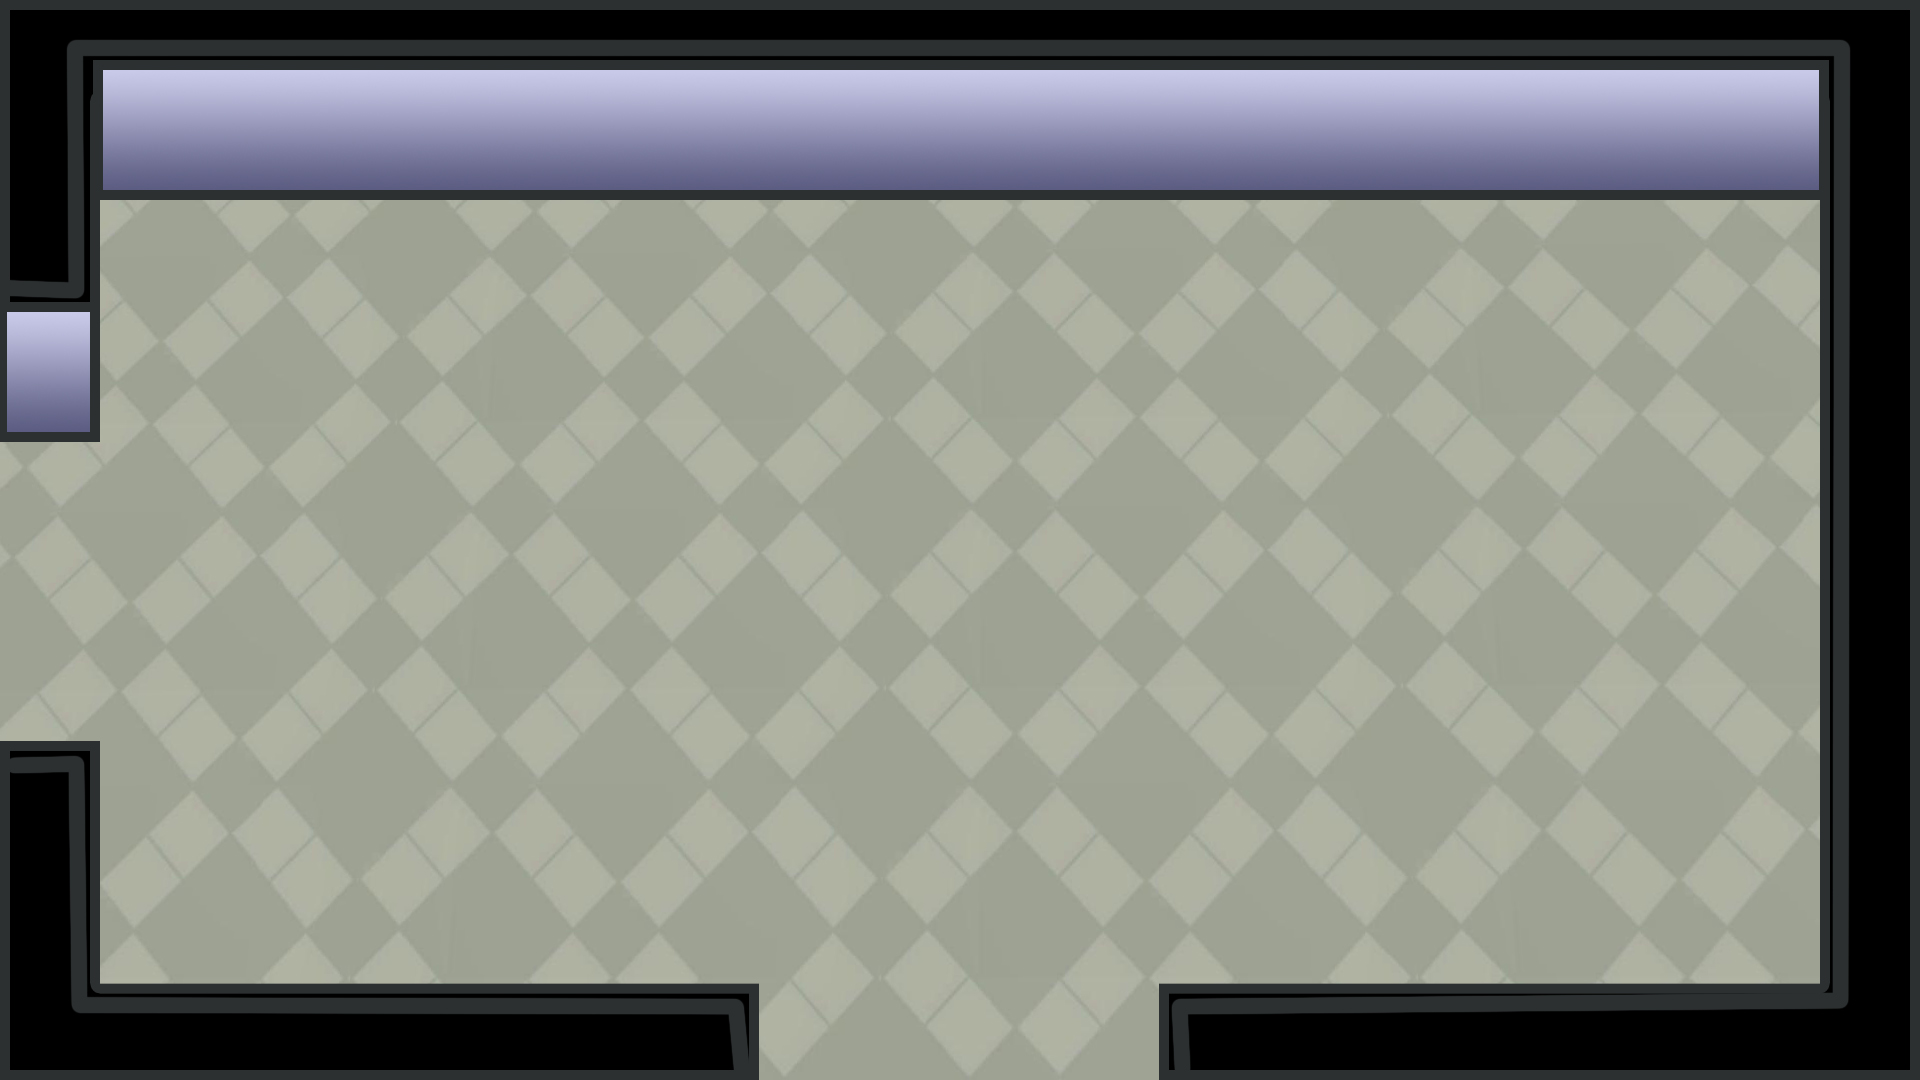
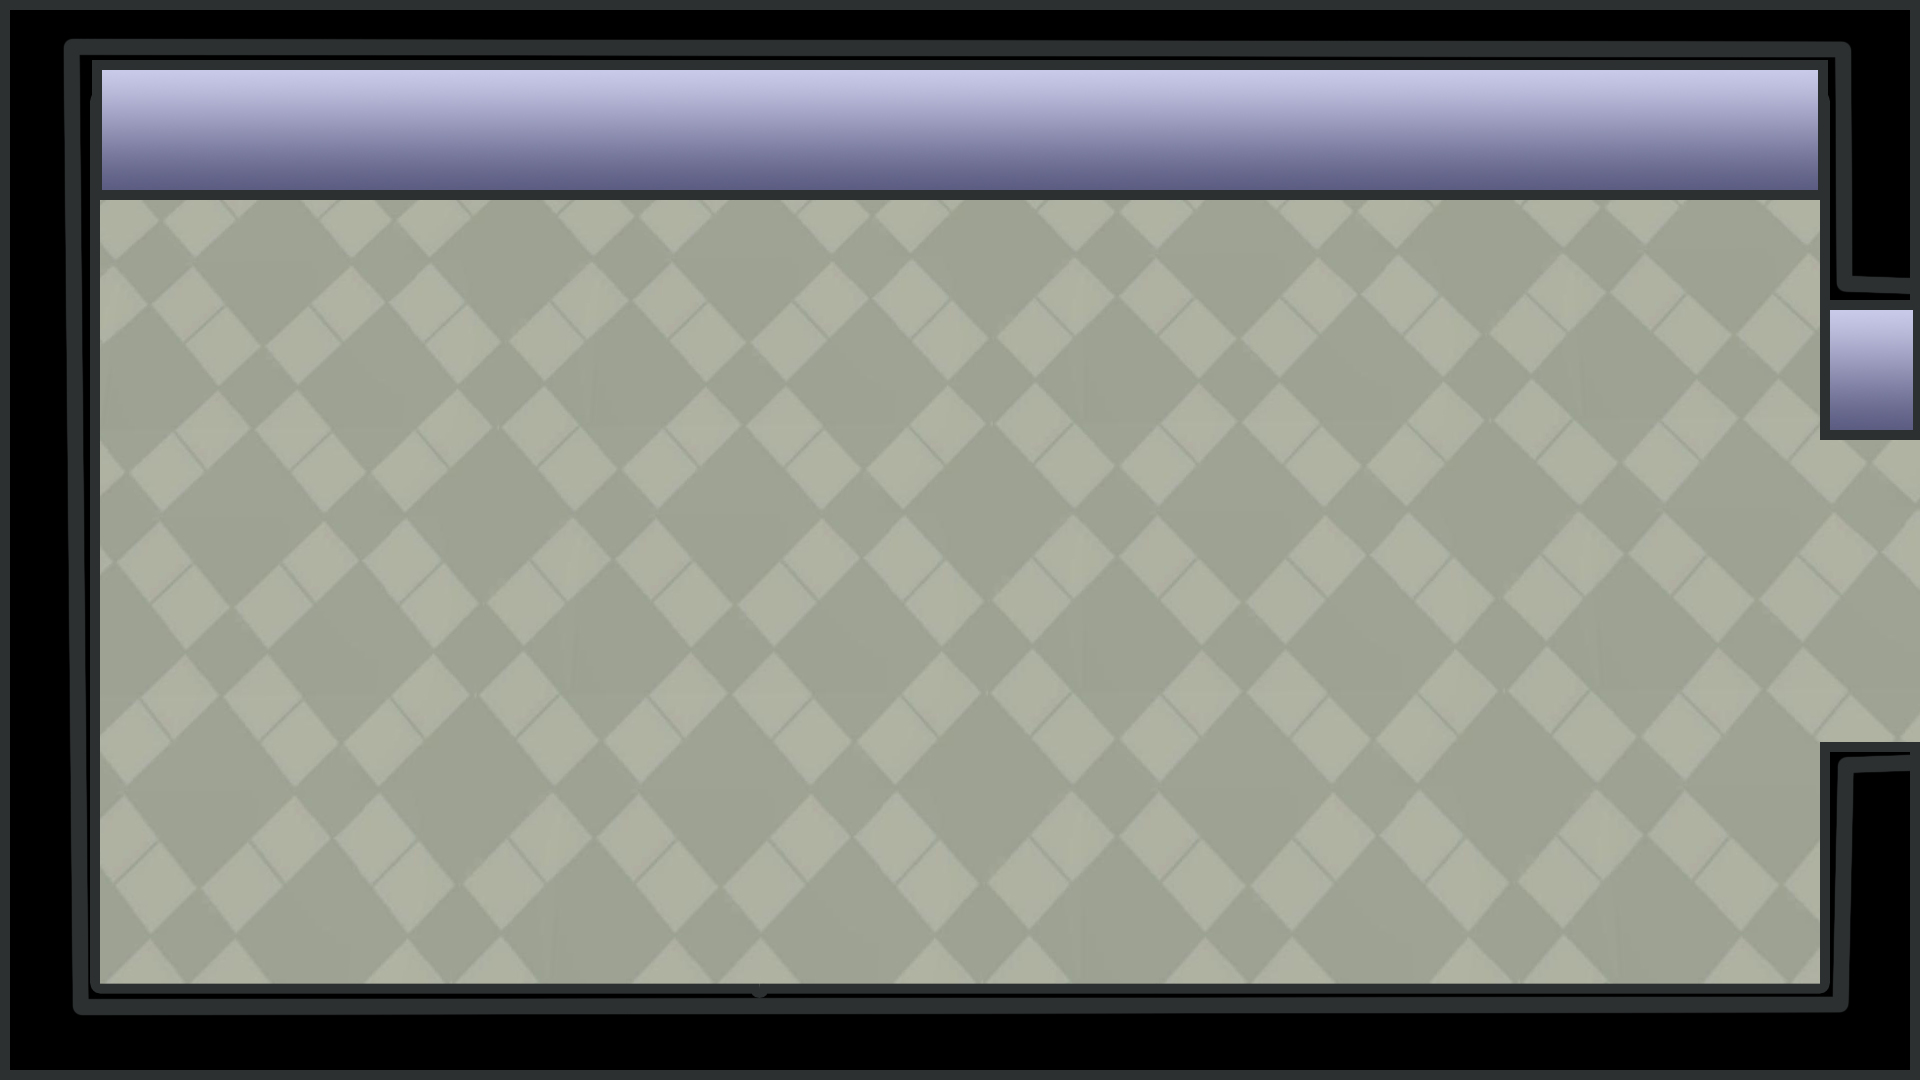
zmniejszona mapa

diff --git a/BTR_0_0_1/Map.cpp b/BTR_0_0_1/Map.cpp
@@ -53,7 +53,7 @@ void Map::updateMap()
 		sf::RectangleShape tmpShape;
 		tmpShape.setPosition(sf::Vector2f(tab[0], tab[1]));
 		tmpShape.setSize(sf::Vector2f(tab[2], tab[3]));
-		tmpShape.setFillColor(sf::Color(tab[5], tab[6], tab[7], 0)); // ostatnia wartosc opacity 
+		tmpShape.setFillColor(sf::Color(tab[5], tab[6], tab[7], 100)); // ostatnia wartosc opacity 
 		this->mapObjects.push_back(tmpShape);
 	}
 }
